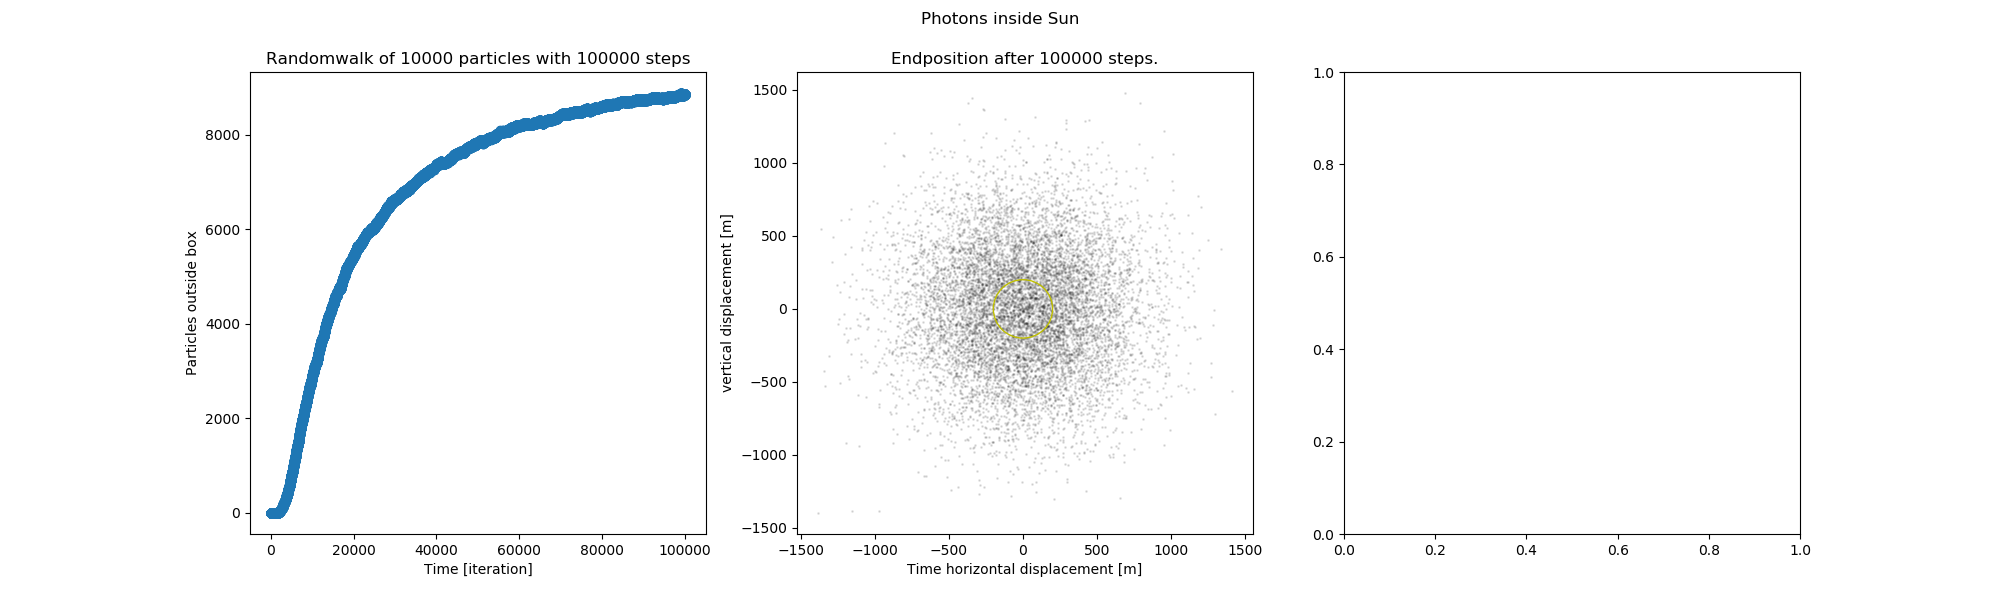
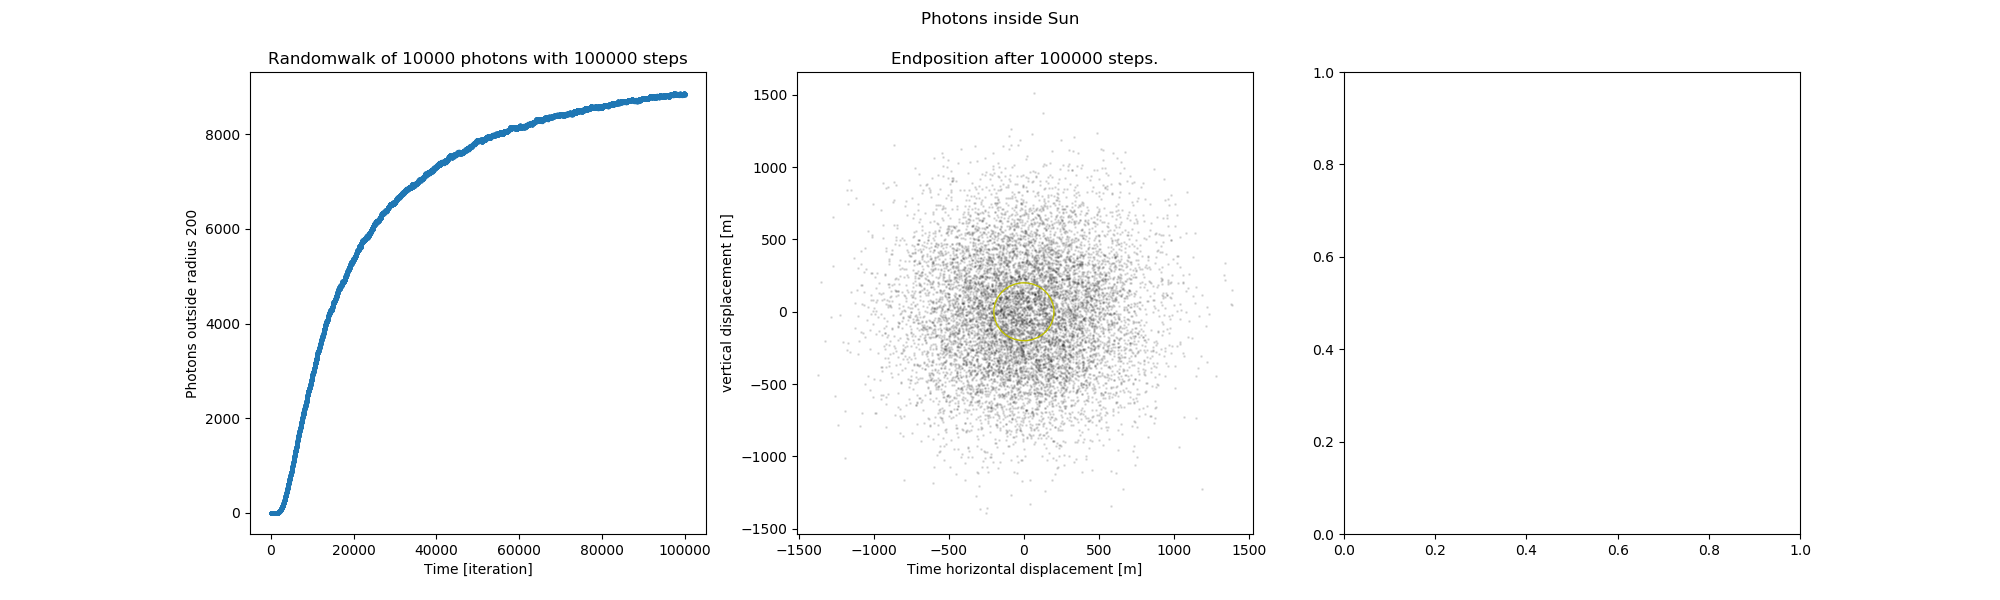
Change plot appearance

diff --git a/randomwalks.py b/randomwalks.py
@@ -59,15 +59,15 @@ fig, axs = plt.subplots(nrows = 1, ncols = 3, figsize = (20, 6))
 fig.suptitle('Photons inside Sun')
 number_outside, end_pos = particle_in_box(N, steps, sunradius)
 # subplot 0 - number of particles outside box at each step
-axs[0].scatter(np.arange(0, steps), number_outside)
+axs[0].scatter(np.arange(0, steps), number_outside, alpha=0.4, s=3, label='particles outside radius {}'.format(sunradius))
 axs[0].set_xlabel('Time [iteration]')
-axs[0].set_ylabel('Particles outside box')
-axs[0].set_title('Randomwalk of {} particles with {} steps'.format(N, steps))
+axs[0].set_ylabel('Photons outside radius {}'.format(sunradius))
+axs[0].set_title('Randomwalk of {} photons with {} steps'.format(N, steps))
 
 # subplot 1 - end position of all particles
-circle = plt.Circle((0, 0), sunradius, color='y', fill=False, alpha=1)
+circle = plt.Circle((0, 0), sunradius, color='y', fill=False, alpha=1, label='sun at radius {}'.format(sunradius))
 axs[1].add_artist(circle)
-axs[1].scatter(end_pos[:, 0], end_pos[:, 1], s=1, alpha=0.1, edgecolor=None, c='k')
+axs[1].scatter(end_pos[:, 0], end_pos[:, 1], s=1, alpha=0.1, edgecolor=None, c='k', label='photons')
 axs[1].set_xlabel('Time horizontal displacement [m]')
 axs[1].set_ylabel('vertical displacement [m]')
 axs[1].set_title('Endposition after {} steps.'.format(steps))
